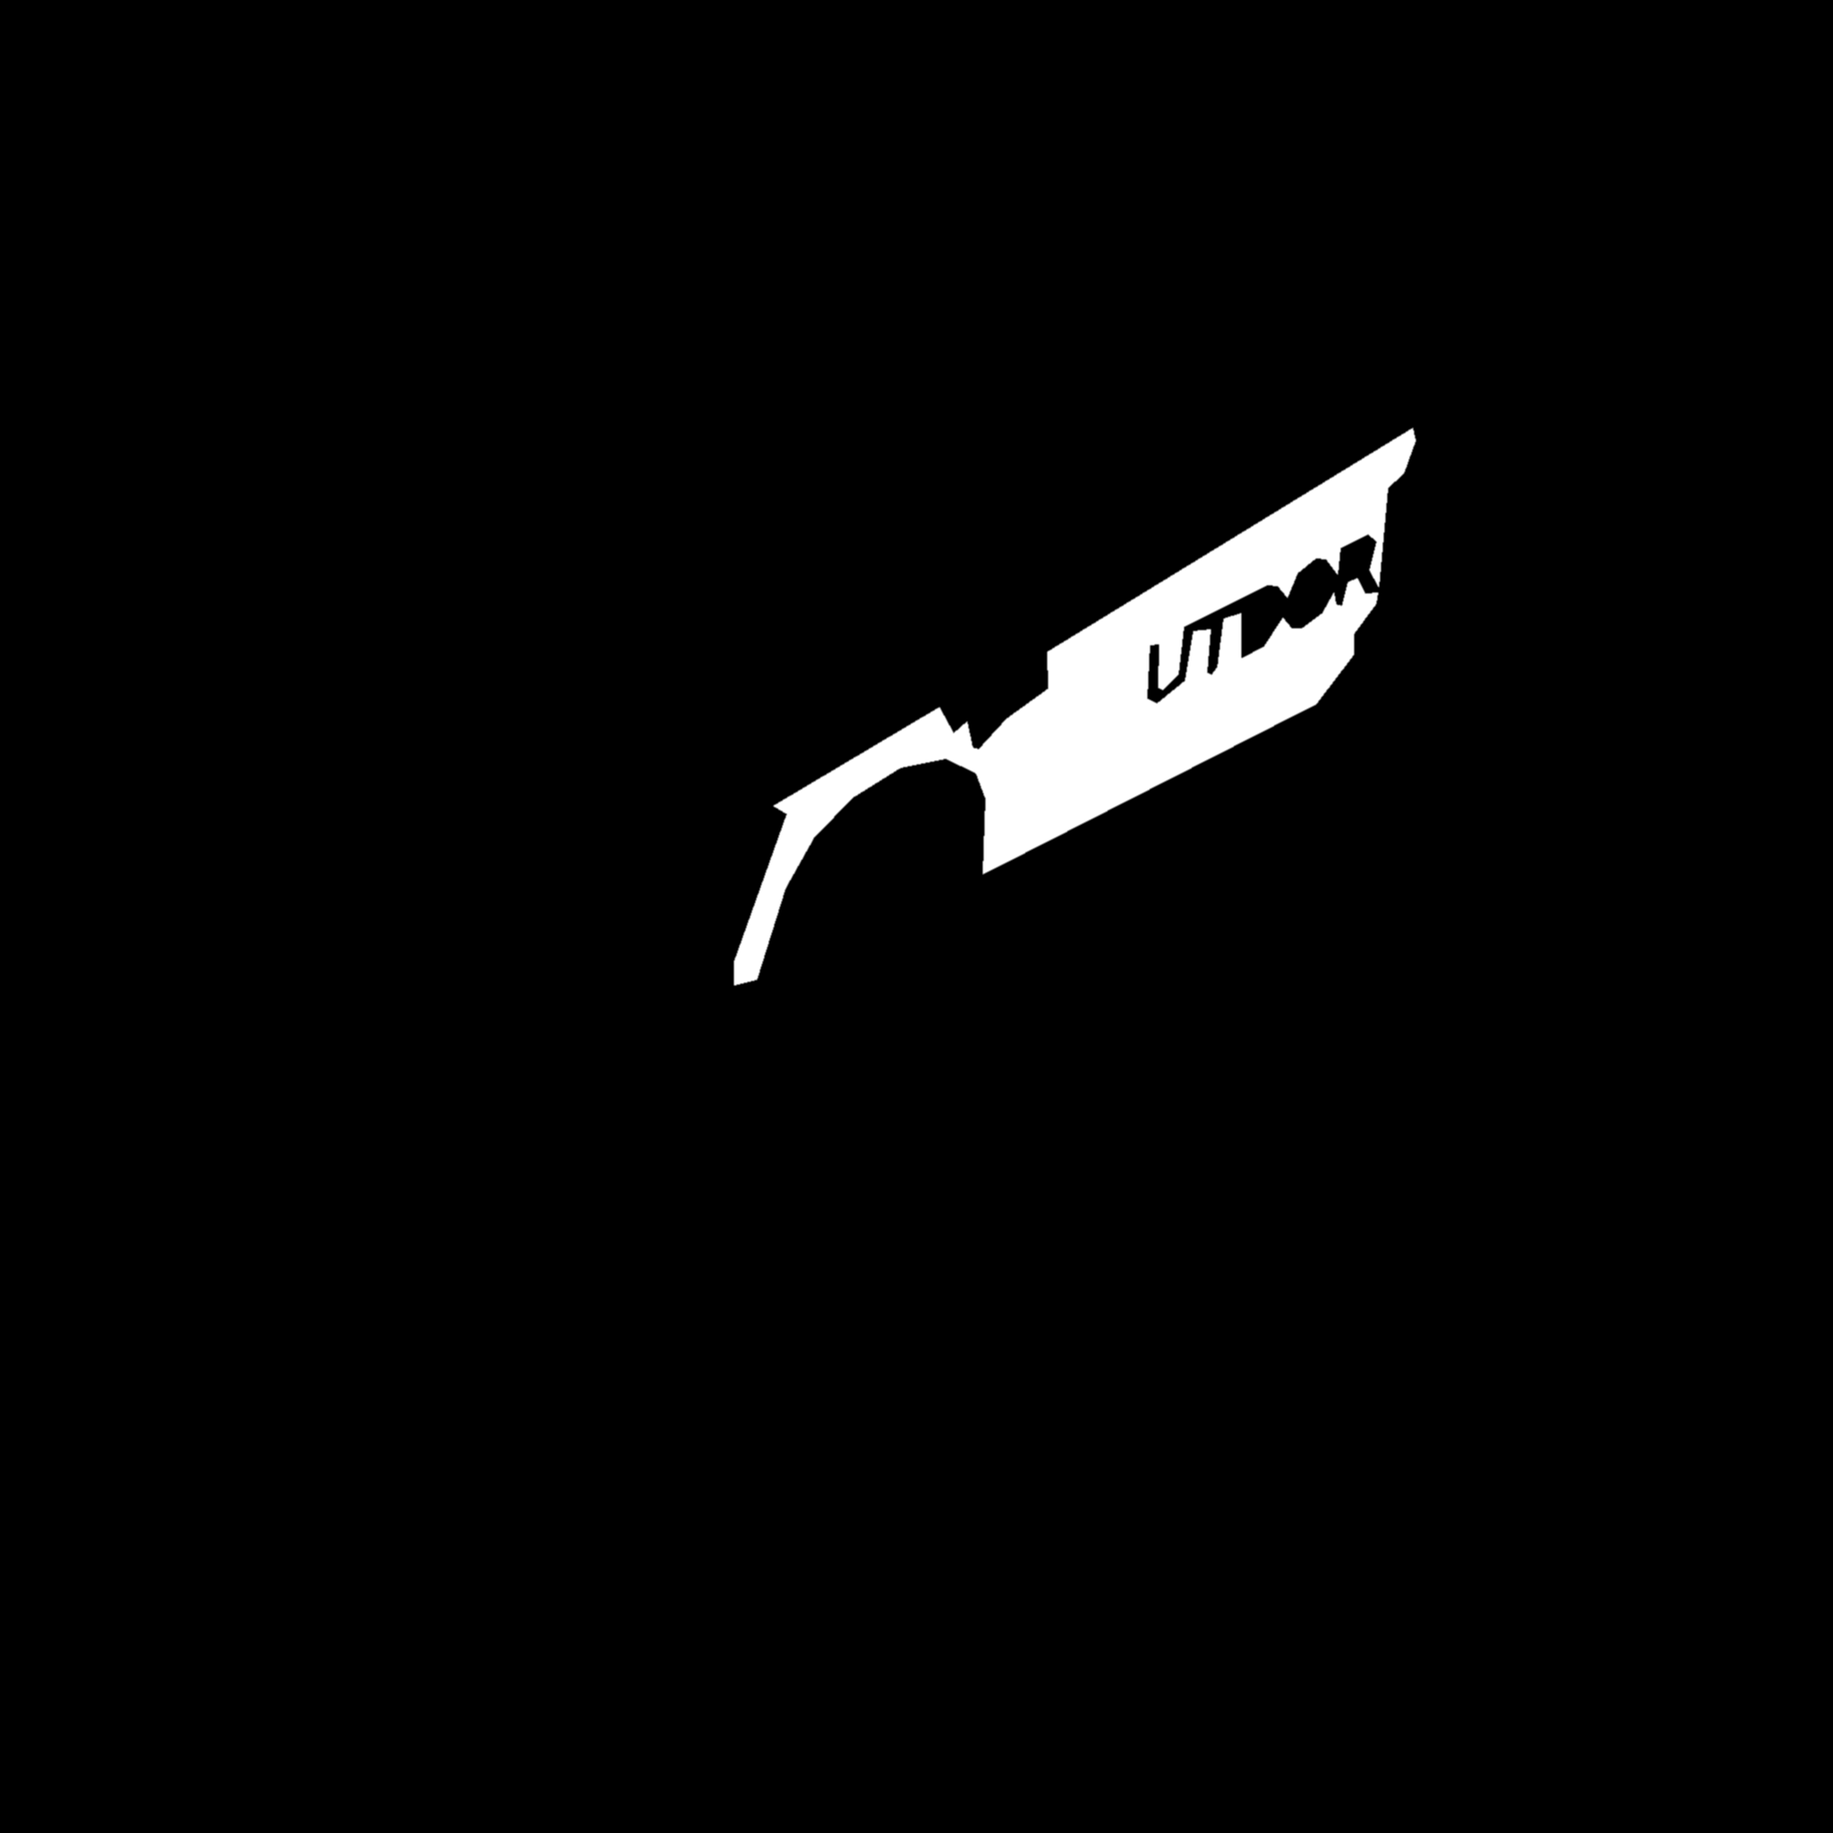
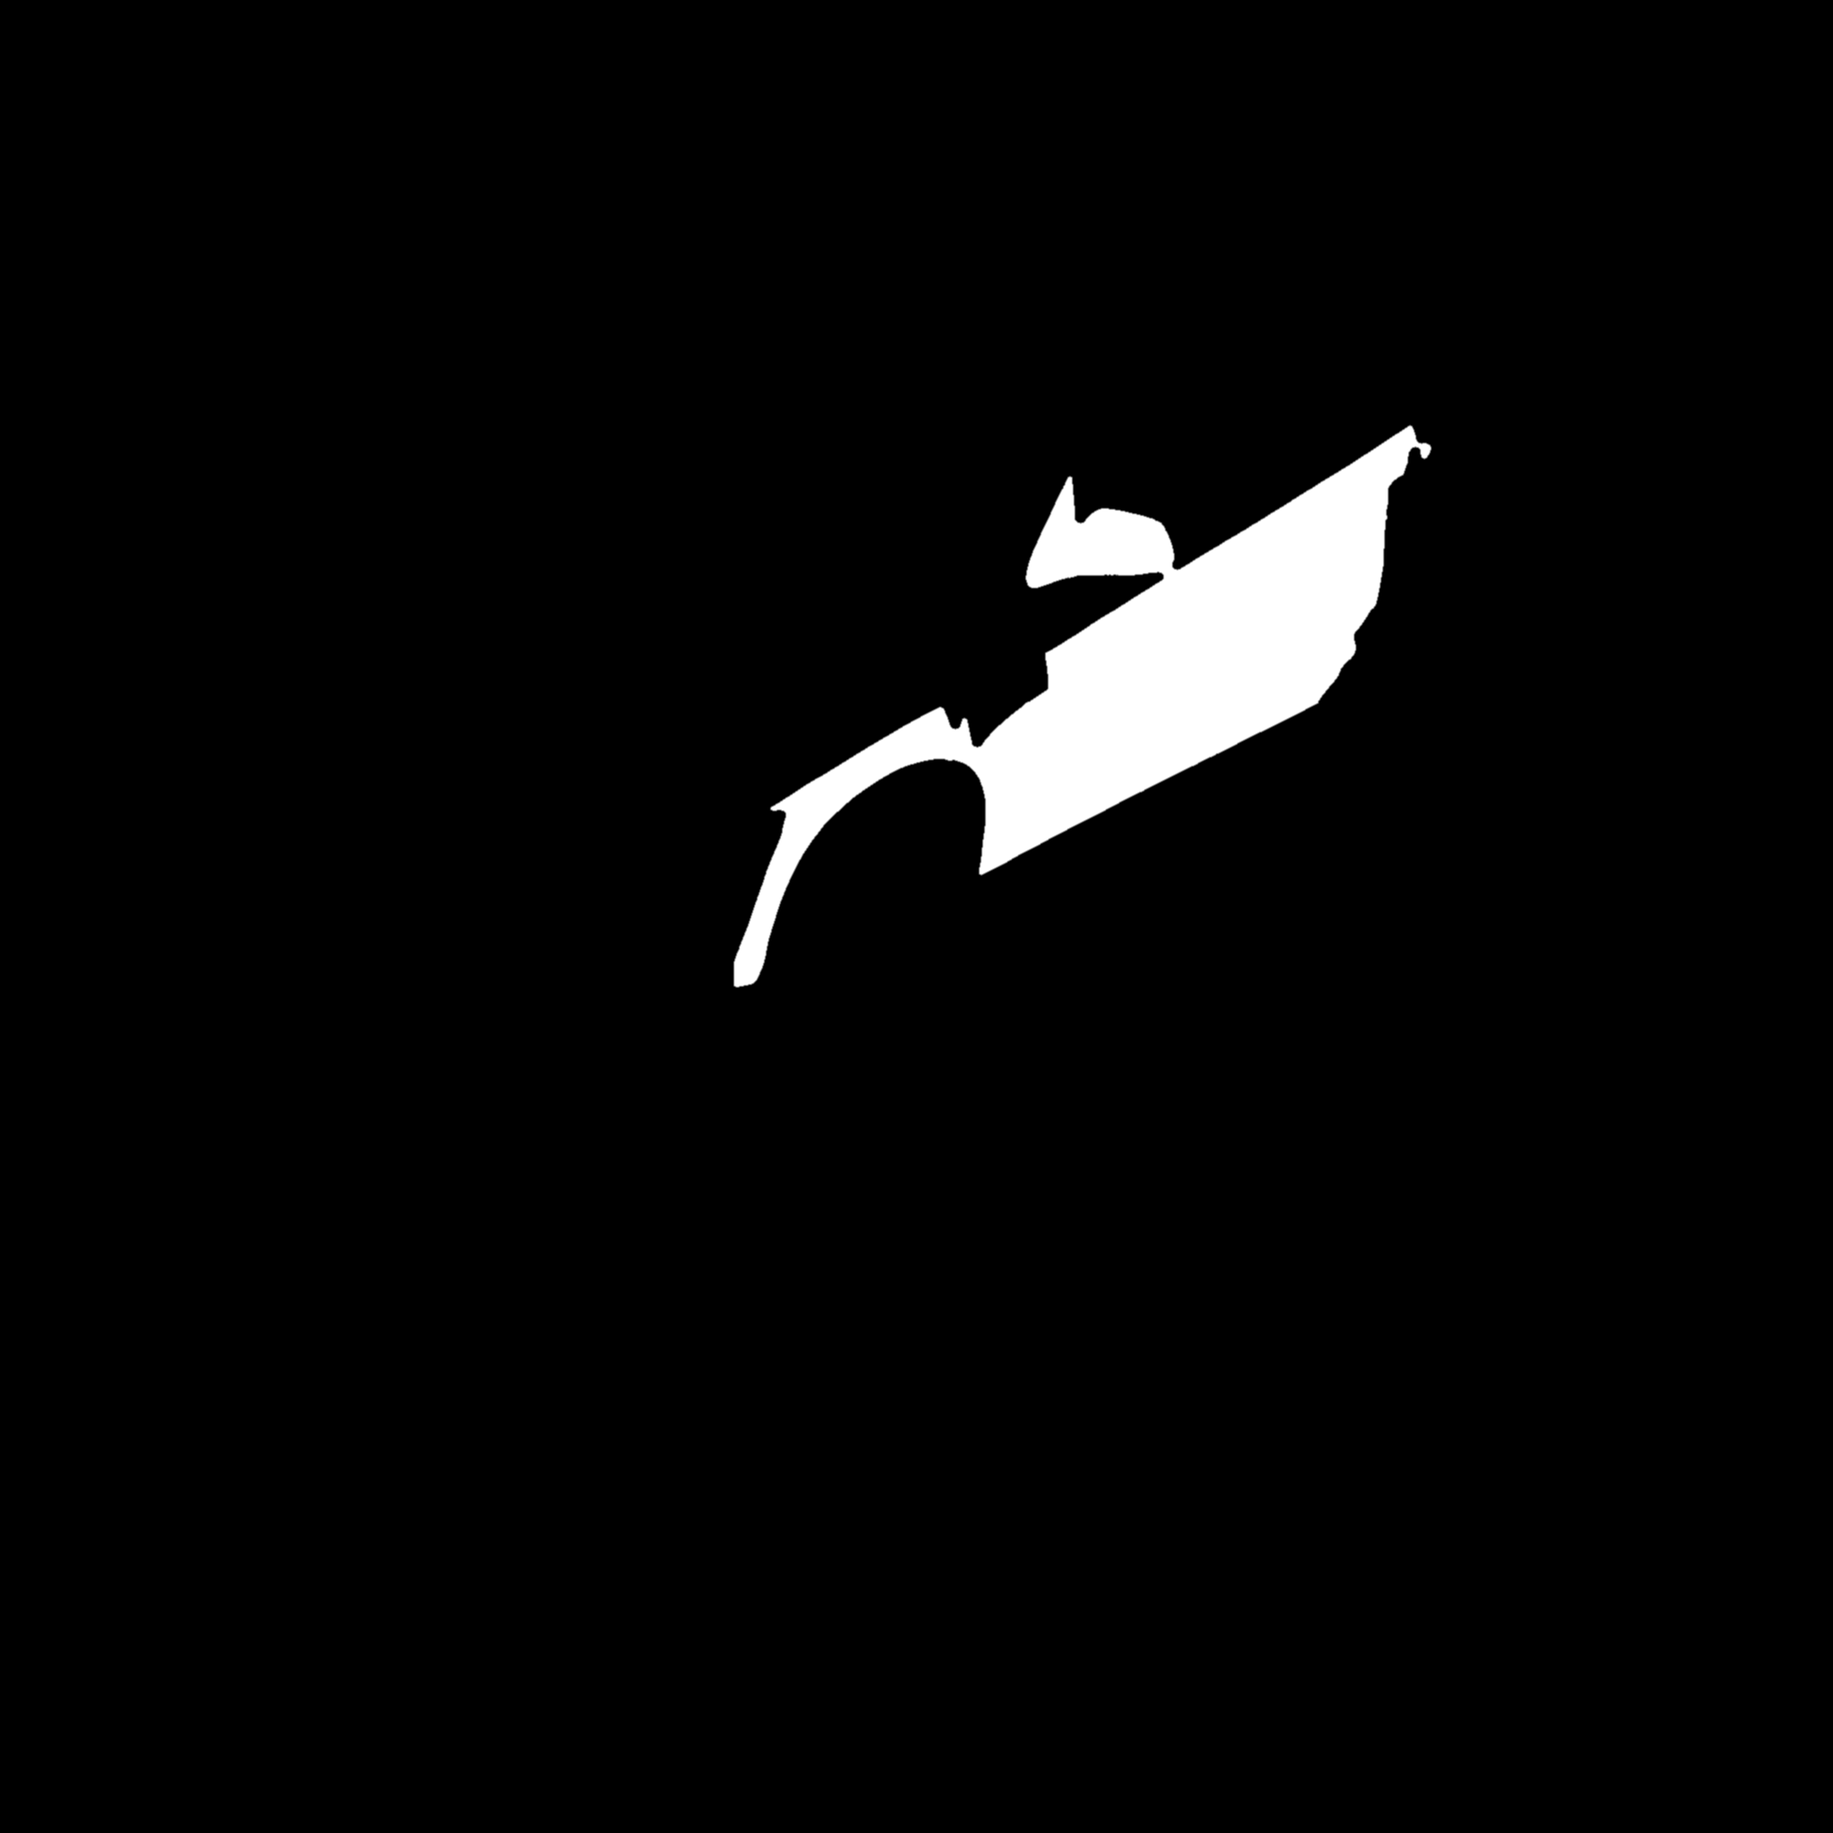
phase C v2: identifica objetos certos (era cinto Sparco, nao coilover!)
Reset depois de descoberta visual: o que eu chamava de spring-RL/RR no
mapa anterior eram CINTOS de seguranca Sparco vermelhos dos bancos, NAO
coilovers. E o tire-FL era poligono dentro do bumper, nao pneu.

Inventario auditado contra crops em alta resolucao:

  visivel (com mascara, recolor HSL):
    tire-RR        pneu traseiro-direito
    coilover-RR    coilover real atras do pneu RR (cilindro red+chrome)
    engine         bloco motor + intake
    body-paint     amarelo do body
    body-roof      verde do teto

  hidden (sem pixel pra repintar; tratamento ghost vem depois):
    tire-FL/FR/RL  cobertos pelo bumper / chassis nessa angulo
    coilover-RL    lado oposto, oculto
    front shocks   atras do motor
    gearbox        atras do bloco

  rejeitados (eram identificacao errada):
    spring-RL/RR   eram cinto Sparco, nao coilover
    tire-FL antigo eram pixels da grade do front bumper

generate_masks.py reescrito: agora 5 mascaras corretas em assets/masks/.
render_phase_c_comparison.py atualizado pra usar so os objetos visiveis.
MASK-AUDIT.png confirma posicao correta de cada mascara.

Changed region(s): [[0.625, 0.2812, 0.75, 0.375], [0.5625, 0.25, 0.6562, 0.3438], [0.75, 0.2188, 0.7812, 0.25]]

diff --git a/scripts/generate_masks.py b/scripts/generate_masks.py
@@ -1,111 +1,133 @@
 #!/usr/bin/env python3
 """
-Phase C step 1 — gera uma máscara binária PNG por sub-peça visível.
+Phase C step 1 — gera uma máscara binária PNG por objeto VISÍVEL.
 
-A máscara é PNG grayscale do mesmo tamanho da foto (2048×2048):
-  branco (255) = pixel pertence à peça
-  preto  (0)   = pixel não pertence
+REGRA: só mascara o que realmente aparece na foto. Não inventa pneus
+escondidos atrás do bumper, não confunde cinto Sparco com coilover.
 
-Estratégia: aproveita os polígonos já refinados em
-assets/celta_exploded_partmap.svg (Phase B v3.1, pixel-precisos) e
-rasteriza cada um como máscara. Para coilovers (que precisam separar
-"corpo do amortecedor" da "espiral da mola"), divide o polígono ao meio
-na vertical: parte superior = coil (mola), inferior = shock (amortecedor).
+Inventário (auditado contra crops da foto, 2026-05-07):
 
-Hidden parts (FR tire, RL tire, front shocks/coils, gearbox) NÃO recebem
-máscara porque não há pixels visíveis pra repintar. O cockpit/glow pode
-indicá-los por outros meios mais tarde.
+  VISÍVEL (com máscara)
+    tire-RR       pneu traseiro-direito              (1490..1900, 1240..1550)
+    coilover-RR   coilover real atrás do pneu        (1490..1670, 1140..1340)
+    engine        bloco motor + intake + bowtie      (430..870,   1280..1700)
+    body-paint    amarelo (frente + rocker)
+    body-roof     verde (teto + laterais)
+
+  HIDDEN (sem máscara — só visualização ghost se quisermos depois)
+    tire-FL/FR/RL    cobertos por bumper / chassis
+    coilover-RL      lado oposto, oculto
+    front shocks     atrás do motor
+
+  REJEITADOS (eram identificação errada)
+    "spring-RL/RR"   eram cinto Sparco vermelho do banco, não coilover
+    "tire-FL"        polígono pegava grade do bumper, não pneu
+
+Estratégia de máscara: combinação de mask de cor + ROI + post-process.
+Para o pneu traseiro: dark+lowsat dentro de ROI elíptica + dilate. Para
+o coilover real: red mask dentro de ROI estreita + close. Para engine
+e body: igual antes (já estavam corretos).
 """
 from __future__ import annotations
-import re
 from pathlib import Path
-import numpy as np
 import cv2
+import numpy as np
 
 ROOT = Path(__file__).resolve().parent.parent
-SVG_PATH = ROOT / "assets/celta_exploded_partmap.svg"
+PHOTO = ROOT / "assets/celta_exploded.png"
 OUT_DIR = ROOT / "assets/masks"
 OUT_DIR.mkdir(parents=True, exist_ok=True)
-
 W, H = 2048, 2048
 
 
-def parse_path_d(d):
-    """SVG d="M x y L x y..." -> list of (x, y) ints."""
-    norm = re.sub(r"([MLZmlz])", r" \1 ", d).replace(",", " ")
-    tokens = norm.split()
-    pts, i = [], 0
-    while i < len(tokens):
-        t = tokens[i]
-        if t in ("M", "L", "m", "l"):
-            try:
-                x = float(tokens[i + 1]); y = float(tokens[i + 2])
-                pts.append((int(round(x)), int(round(y))))
-                i += 3
-            except (ValueError, IndexError):
-                i += 1
-        elif t in ("Z", "z"):
-            i += 1
-        else:
-            try:
-                x = float(t); y = float(tokens[i + 1])
-                pts.append((int(round(x)), int(round(y))))
-                i += 2
-            except (ValueError, IndexError):
-                i += 1
-    return pts
+# ---------------- color masks ----------------
+
+def hsv(bgr):
+    return cv2.cvtColor(bgr, cv2.COLOR_BGR2HSV)
 
 
-def get_polygon(svg_text, part_id):
-    pat = re.compile(rf'<path[^>]*\bid="{re.escape(part_id)}"[^>]*\bd="([^"]+)"')
-    m = pat.search(svg_text)
-    if not m:
-        raise SystemExit(f"polygon {part_id!r} not found in SVG")
-    return parse_path_d(m.group(1))
+def yellow_mask(bgr):
+    return cv2.inRange(hsv(bgr), (15, 110, 110), (38, 255, 255))
 
 
-def rasterize(pts, hull=False):
-    """Filled binary mask 2048x2048 from a polygon. If hull=True, use the
-    convex hull instead — useful for roughly-convex parts (tires) whose
-    color-traced polygon misses lighter sidewall/edge pixels."""
-    mask = np.zeros((H, W), dtype=np.uint8)
-    if not pts:
+def green_mask(bgr):
+    return cv2.inRange(hsv(bgr), (38, 60, 50), (85, 255, 230))
+
+
+def red_mask(bgr):
+    h = hsv(bgr)
+    m1 = cv2.inRange(h, (0, 100, 70), (12, 255, 255))
+    m2 = cv2.inRange(h, (165, 100, 70), (180, 255, 255))
+    return cv2.bitwise_or(m1, m2)
+
+
+def tire_rubber_mask(bgr):
+    h = hsv(bgr)
+    gray = cv2.cvtColor(bgr, cv2.COLOR_BGR2GRAY)
+    dark = cv2.inRange(gray, 0, 65)
+    low_sat = cv2.inRange(h[:, :, 1], 0, 65)
+    return cv2.bitwise_and(dark, low_sat)
+
+
+def engine_mask(bgr):
+    """Silver intake + dark valve cover, both low saturation."""
+    h = hsv(bgr)
+    bright = cv2.inRange(h[:, :, 2], 105, 255)
+    low_sat = cv2.inRange(h[:, :, 1], 0, 70)
+    silver = cv2.bitwise_and(bright, low_sat)
+    gray = cv2.cvtColor(bgr, cv2.COLOR_BGR2GRAY)
+    mid = cv2.inRange(gray, 35, 95)
+    return cv2.bitwise_or(silver, cv2.bitwise_and(mid, low_sat))
+
+
+# ---------------- helpers ----------------
+
+def biggest_blob(mask):
+    n, labels, stats, _ = cv2.connectedComponentsWithStats(mask, connectivity=8)
+    if n <= 1:
         return mask
-    arr = np.array(pts, dtype=np.int32)
-    if hull:
-        arr = cv2.convexHull(arr).reshape(-1, 2)
-    cv2.fillPoly(mask, [arr], 255)
+    sizes = stats[1:, cv2.CC_STAT_AREA]
+    idx = 1 + int(np.argmax(sizes))
+    out = np.zeros_like(mask)
+    out[labels == idx] = 255
+    return out
+
+
+def fill_holes(mask):
+    """Fill enclosed holes (donut -> solid disk)."""
+    if mask.max() == 0:
+        return mask
+    inv = cv2.bitwise_not(mask)
+    flood = inv.copy()
+    ff = np.zeros((mask.shape[0] + 2, mask.shape[1] + 2), np.uint8)
+    cv2.floodFill(flood, ff, (0, 0), 0)
+    return cv2.bitwise_or(mask, flood)
+
+
+def morph(mask, close=0, open_=0, dilate=0):
+    if close > 0:
+        k = cv2.getStructuringElement(cv2.MORPH_ELLIPSE, (close, close))
+        mask = cv2.morphologyEx(mask, cv2.MORPH_CLOSE, k)
+    if open_ > 0:
+        k = cv2.getStructuringElement(cv2.MORPH_ELLIPSE, (open_, open_))
+        mask = cv2.morphologyEx(mask, cv2.MORPH_OPEN, k)
+    if dilate > 0:
+        k = cv2.getStructuringElement(cv2.MORPH_ELLIPSE, (dilate, dilate))
+        mask = cv2.dilate(mask, k)
     return mask
 
 
-def dilate(mask, radius):
-    if radius <= 0 or mask.max() == 0:
-        return mask
-    k = cv2.getStructuringElement(cv2.MORPH_ELLIPSE, (radius * 2 + 1, radius * 2 + 1))
-    return cv2.dilate(mask, k)
-
-
-def split_horizontal(mask, top_frac=0.55, overlap=0.05):
-    """Splits the mask into a top region and bottom region using its bbox.
-    Returns (top_mask, bot_mask). Top covers up to `top_frac` of bbox height,
-    bottom starts at (top_frac - overlap). The 5% overlap blends the seam."""
-    ys, xs = np.where(mask > 0)
-    if len(ys) == 0:
-        return mask.copy(), mask.copy()
-    y0, y1 = int(ys.min()), int(ys.max())
-    h = y1 - y0
-    cut_top = y0 + int(h * top_frac)
-    cut_bot = y0 + int(h * (top_frac - overlap))
-    top = mask.copy(); top[cut_top:, :] = 0
-    bot = mask.copy(); bot[:cut_bot, :] = 0
-    return top, bot
-
-
 def feather(mask, radius=1):
-    """Tight 1-2px Gaussian feather to avoid stair-stepped edges."""
     if radius <= 0 or mask.max() == 0:
         return mask
     return cv2.GaussianBlur(mask, (radius * 2 + 1, radius * 2 + 1), 0)
+
+
+def roi_only(mask, roi):
+    x, y, w, h = roi
+    out = np.zeros_like(mask)
+    out[y:y + h, x:x + w] = mask[y:y + h, x:x + w]
+    return out
 
 
 def write(name, mask):
@@ -116,34 +138,53 @@ def write(name, mask):
     print(f"[ok] {name:14s} -> {out.relative_to(ROOT)}   {n:>7d} px  ({pct:.2f}% canvas)")
 
 
+# ---------------- pipeline ----------------
+
 def main():
-    svg = SVG_PATH.read_text(encoding="utf-8")
+    bgr = cv2.imread(str(PHOTO))
+    if bgr is None:
+        raise SystemExit(f"missing {PHOTO}")
 
-    # Tires are roughly convex; use convex hull + 8px dilate so the mask
-    # covers rubber + edges, not just the dark-pixel trace.
-    for pid in ("tire-FL", "tire-RR"):
-        pts = get_polygon(svg, pid)
-        write(pid, feather(dilate(rasterize(pts, hull=True), 8), 2))
+    # Wipe stale masks (we may have removed parts since last run)
+    for old in OUT_DIR.glob("*.png"):
+        old.unlink()
 
-    # Engine: small dilate to capture intake highlights without bleeding
-    # onto the surrounding chassis frame.
-    write("engine", feather(dilate(rasterize(get_polygon(svg, "engine")), 4), 2))
+    # tire-RR: rubber sidewall + tread, includes hub face. ROI is the
+    # rear-right tire bbox confirmed by photo crop.
+    tm = roi_only(tire_rubber_mask(bgr), (1490, 1240, 410, 320))
+    tm = morph(tm, close=15, open_=5, dilate=8)
+    tm = biggest_blob(tm)
+    tm = fill_holes(tm)
+    write("tire-RR", feather(tm, 2))
 
-    # Body parts: keep tight; they're large and adjacent to each other,
-    # any dilate would bleed across the green/yellow boundary.
-    for pid in ("body-paint", "body-roof"):
-        pts = get_polygon(svg, pid)
-        write(pid, feather(rasterize(pts), 1))
+    # coilover-RR: the real visible rear-right coilover behind the tire.
+    # Red mask within tight ROI; the seat harnesses (also red) are in
+    # different x range so safe.
+    cm = roi_only(red_mask(bgr), (1490, 1140, 200, 220))
+    cm = morph(cm, close=15, open_=3, dilate=4)
+    cm = biggest_blob(cm)
+    write("coilover-RR", feather(cm, 1))
 
-    # Coilover RL/RR split into coil (upper) + shock body (lower).
-    # Small dilate so the mask covers the full cylinder, not just the red
-    # mask trace.
-    for side, src in [("RL", "spring-RL"), ("RR", "spring-RR")]:
-        pts = get_polygon(svg, src)
-        full = dilate(rasterize(pts), 4)
-        coil, shock = split_horizontal(full, top_frac=0.55, overlap=0.05)
-        write(f"coil-{side}",  feather(coil, 1))
-        write(f"shock-{side}", feather(shock, 1))
+    # engine: silver intake + dark block, ROI matches photo crop.
+    em = roi_only(engine_mask(bgr), (430, 1280, 460, 420))
+    em = morph(em, close=11, open_=7, dilate=4)
+    em = biggest_blob(em)
+    em = fill_holes(em)
+    write("engine", feather(em, 1))
+
+    # body-paint: yellow blob (frente + rocker)
+    bp = roi_only(yellow_mask(bgr), (260, 470, 820, 660))
+    bp = morph(bp, close=11, open_=5)
+    bp = biggest_blob(bp)
+    bp = fill_holes(bp)
+    write("body-paint", feather(bp, 1))
+
+    # body-roof: green blob
+    br = roi_only(green_mask(bgr), (820, 90, 800, 1020))
+    br = morph(br, close=11, open_=5)
+    br = biggest_blob(br)
+    br = fill_holes(br)
+    write("body-roof", feather(br, 1))
 
     print(f"\nmasks under {OUT_DIR.relative_to(ROOT)}/")
 

diff --git a/scripts/render_phase_c_comparison.py b/scripts/render_phase_c_comparison.py
@@ -134,17 +134,14 @@ def rule_body(t):
     return (220, 0.25 * dev * 2)
 
 
-# Map part -> (rule_fn, mask_filename)
+# Inventário REAL — só objetos visíveis na foto. Hidden parts tratados
+# em separado via translucidez ghost (Phase B v3 carryover).
 PARTS = {
-    "tire-FL":   (rule_tire,   "tire-FL.png"),
-    "tire-RR":   (rule_tire,   "tire-RR.png"),
-    "shock-RL":  (rule_shock,  "shock-RL.png"),
-    "shock-RR":  (rule_shock,  "shock-RR.png"),
-    "coil-RL":   (rule_coil,   "coil-RL.png"),
-    "coil-RR":   (rule_coil,   "coil-RR.png"),
-    "engine":    (rule_engine, "engine.png"),
-    "body-paint":(rule_body,   "body-paint.png"),
-    "body-roof": (rule_body,   "body-roof.png"),
+    "tire-RR":     (rule_tire,   "tire-RR.png"),
+    "coilover-RR": (rule_shock,  "coilover-RR.png"),  # cilindro inteiro como uma peça só por enquanto
+    "engine":      (rule_engine, "engine.png"),
+    "body-paint":  (rule_body,   "body-paint.png"),
+    "body-roof":   (rule_body,   "body-roof.png"),
 }
 
 
@@ -157,17 +154,16 @@ def merge(a, **upd):
 
 
 SCENARIOS = [
-    ("Janela ideal · foto pura",
-     {p: 0.5 for p in PARTS} | {"shock-RL": None, "shock-RR": None,
-                                "coil-RL": None, "coil-RR": None}),
-    ("Setup normal · amortecedores azuis",
+    ("Janela ideal · foto pura (sem override)",
+     {p: 0.5 for p in PARTS} | {"coilover-RR": None}),
+    ("Setup normal · coilover RR azul",
      neutral_state()),
     ("Pneu RR superaquecendo",
      merge(neutral_state(), **{"tire-RR": 0.92})),
-    ("Mola RL com problema (vermelha)",
-     merge(neutral_state(), **{"coil-RL": 0.90})),
-    ("Amortecedor RR comprometido",
-     merge(neutral_state(), **{"shock-RR": 0.88})),
+    ("Pneu RR muito frio (azul)",
+     merge(neutral_state(), **{"tire-RR": 0.10})),
+    ("Coilover RR alarmando (vermelho)",
+     merge(neutral_state(), **{"coilover-RR": 0.92})),
     ("Motor superaquecendo",
      merge(neutral_state(), engine=0.92)),
 ]
